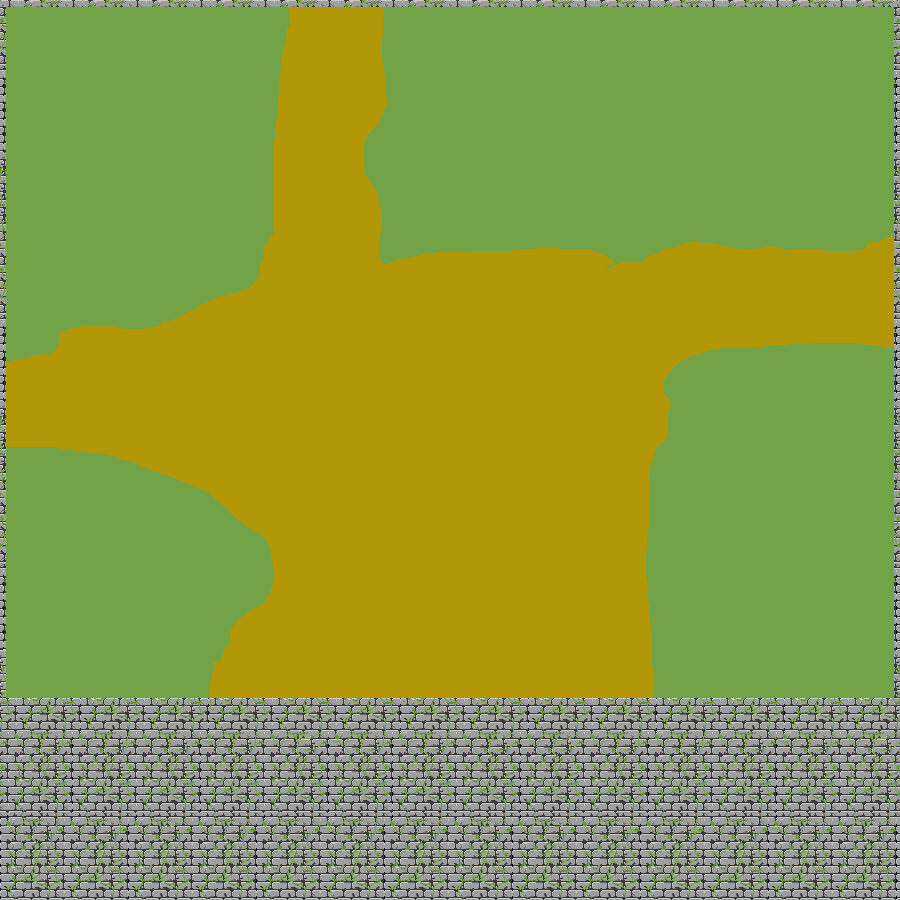
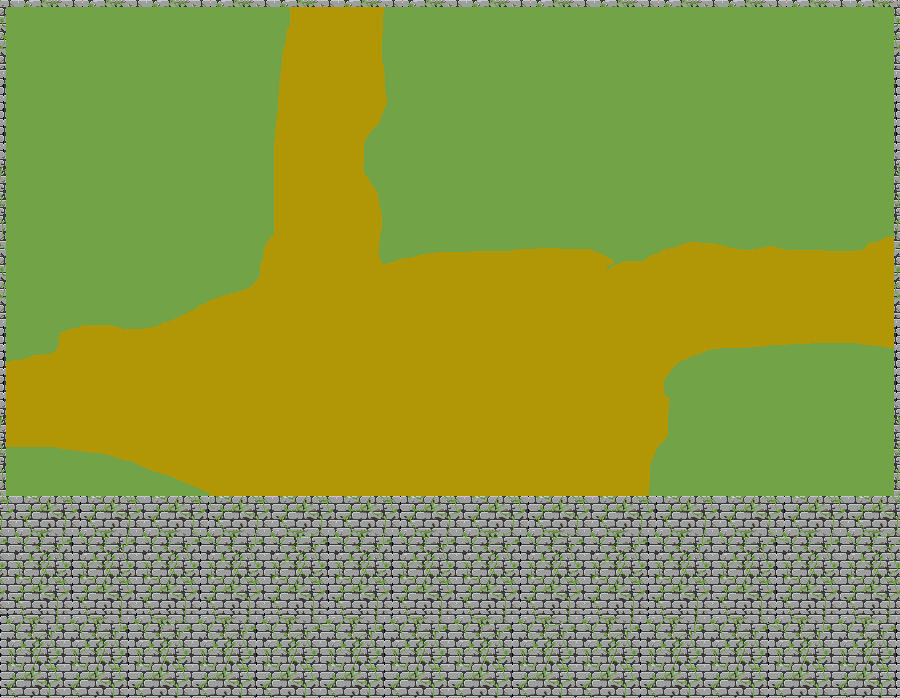
Minimum Viable Product

diff --git a/khafile.js b/khafile.js
@@ -1,13 +1,11 @@
-let project = new Project('New Project');
+let project = new Project('Git Gold');
 project.addAssets('Assets/**');
 project.addSources('Sources');
 project.addLibrary('Echoes');
 project.addLibrary('hxbit');
 project.addLibrary('slide');
 project.addLibrary('nape-haxe4');
-// hxmath support
-project.addLibrary('hxmath');
-project.addDefine('ECHO_USE_HXMATH');
+project.icon = 'Assets/icon.png';
 project.windowOptions.width = 900;
-project.windowOptions.height = 900;
+project.windowOptions.height = 700;
 resolve(project);
